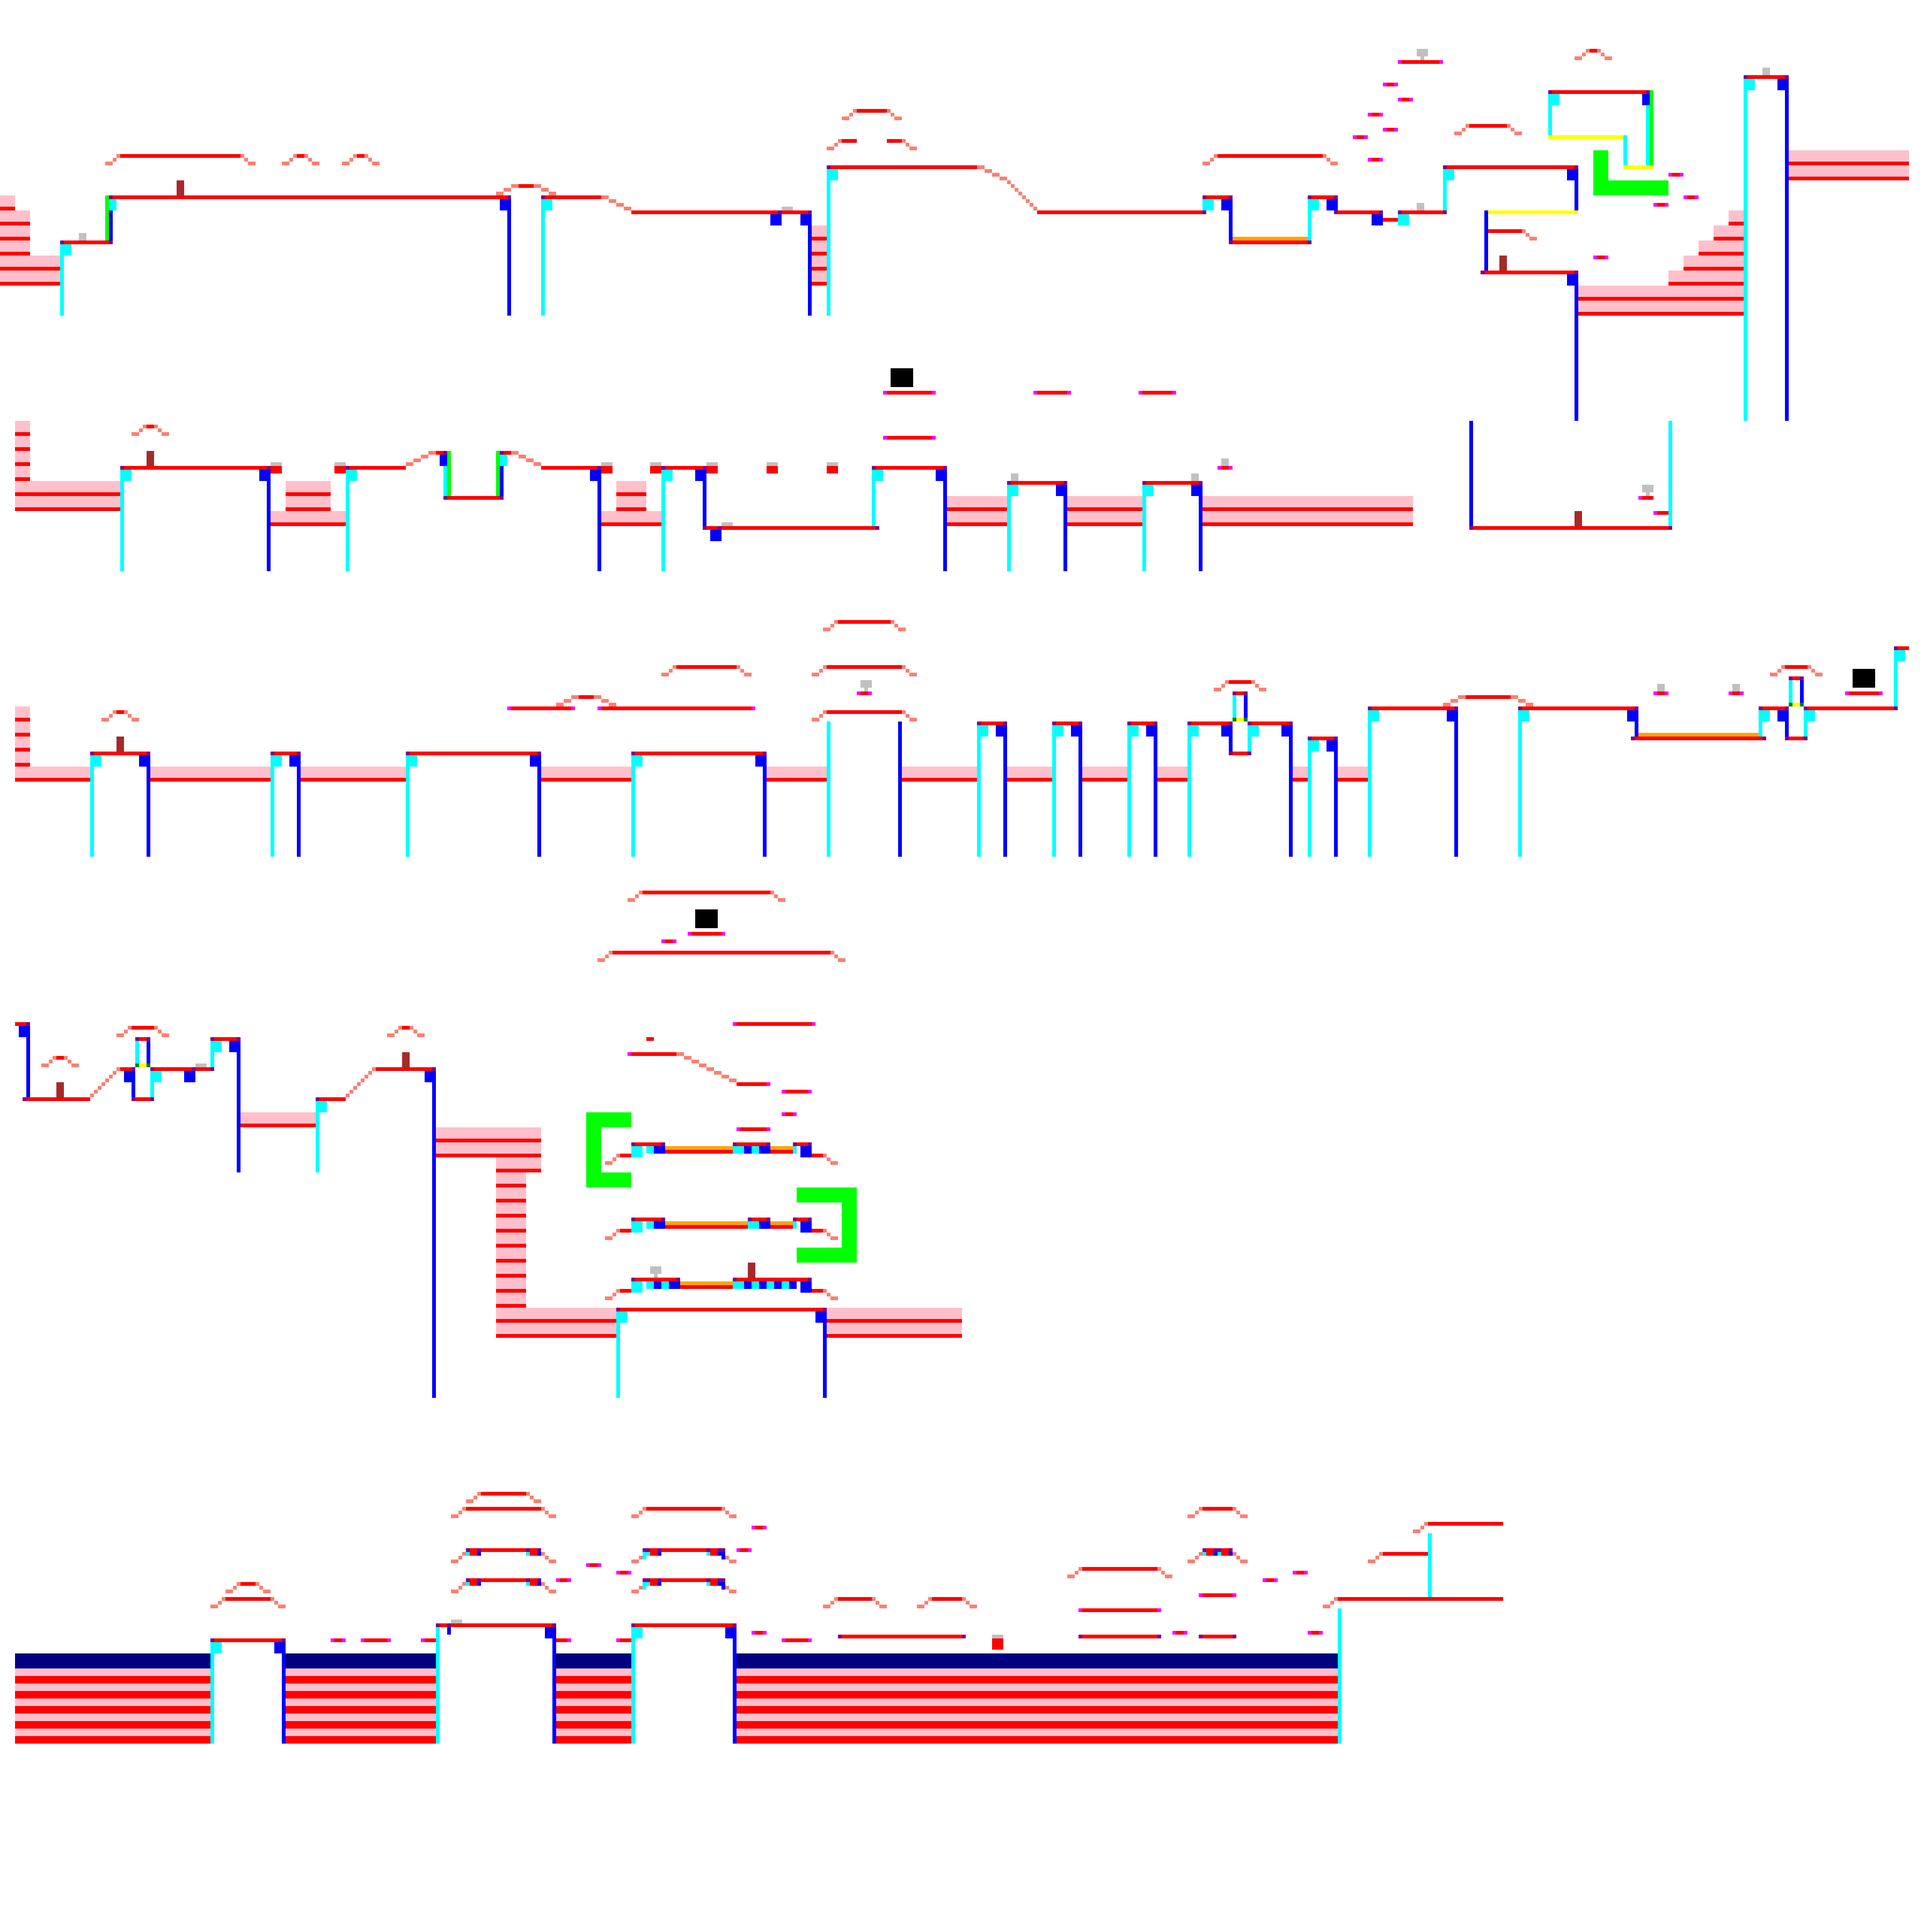
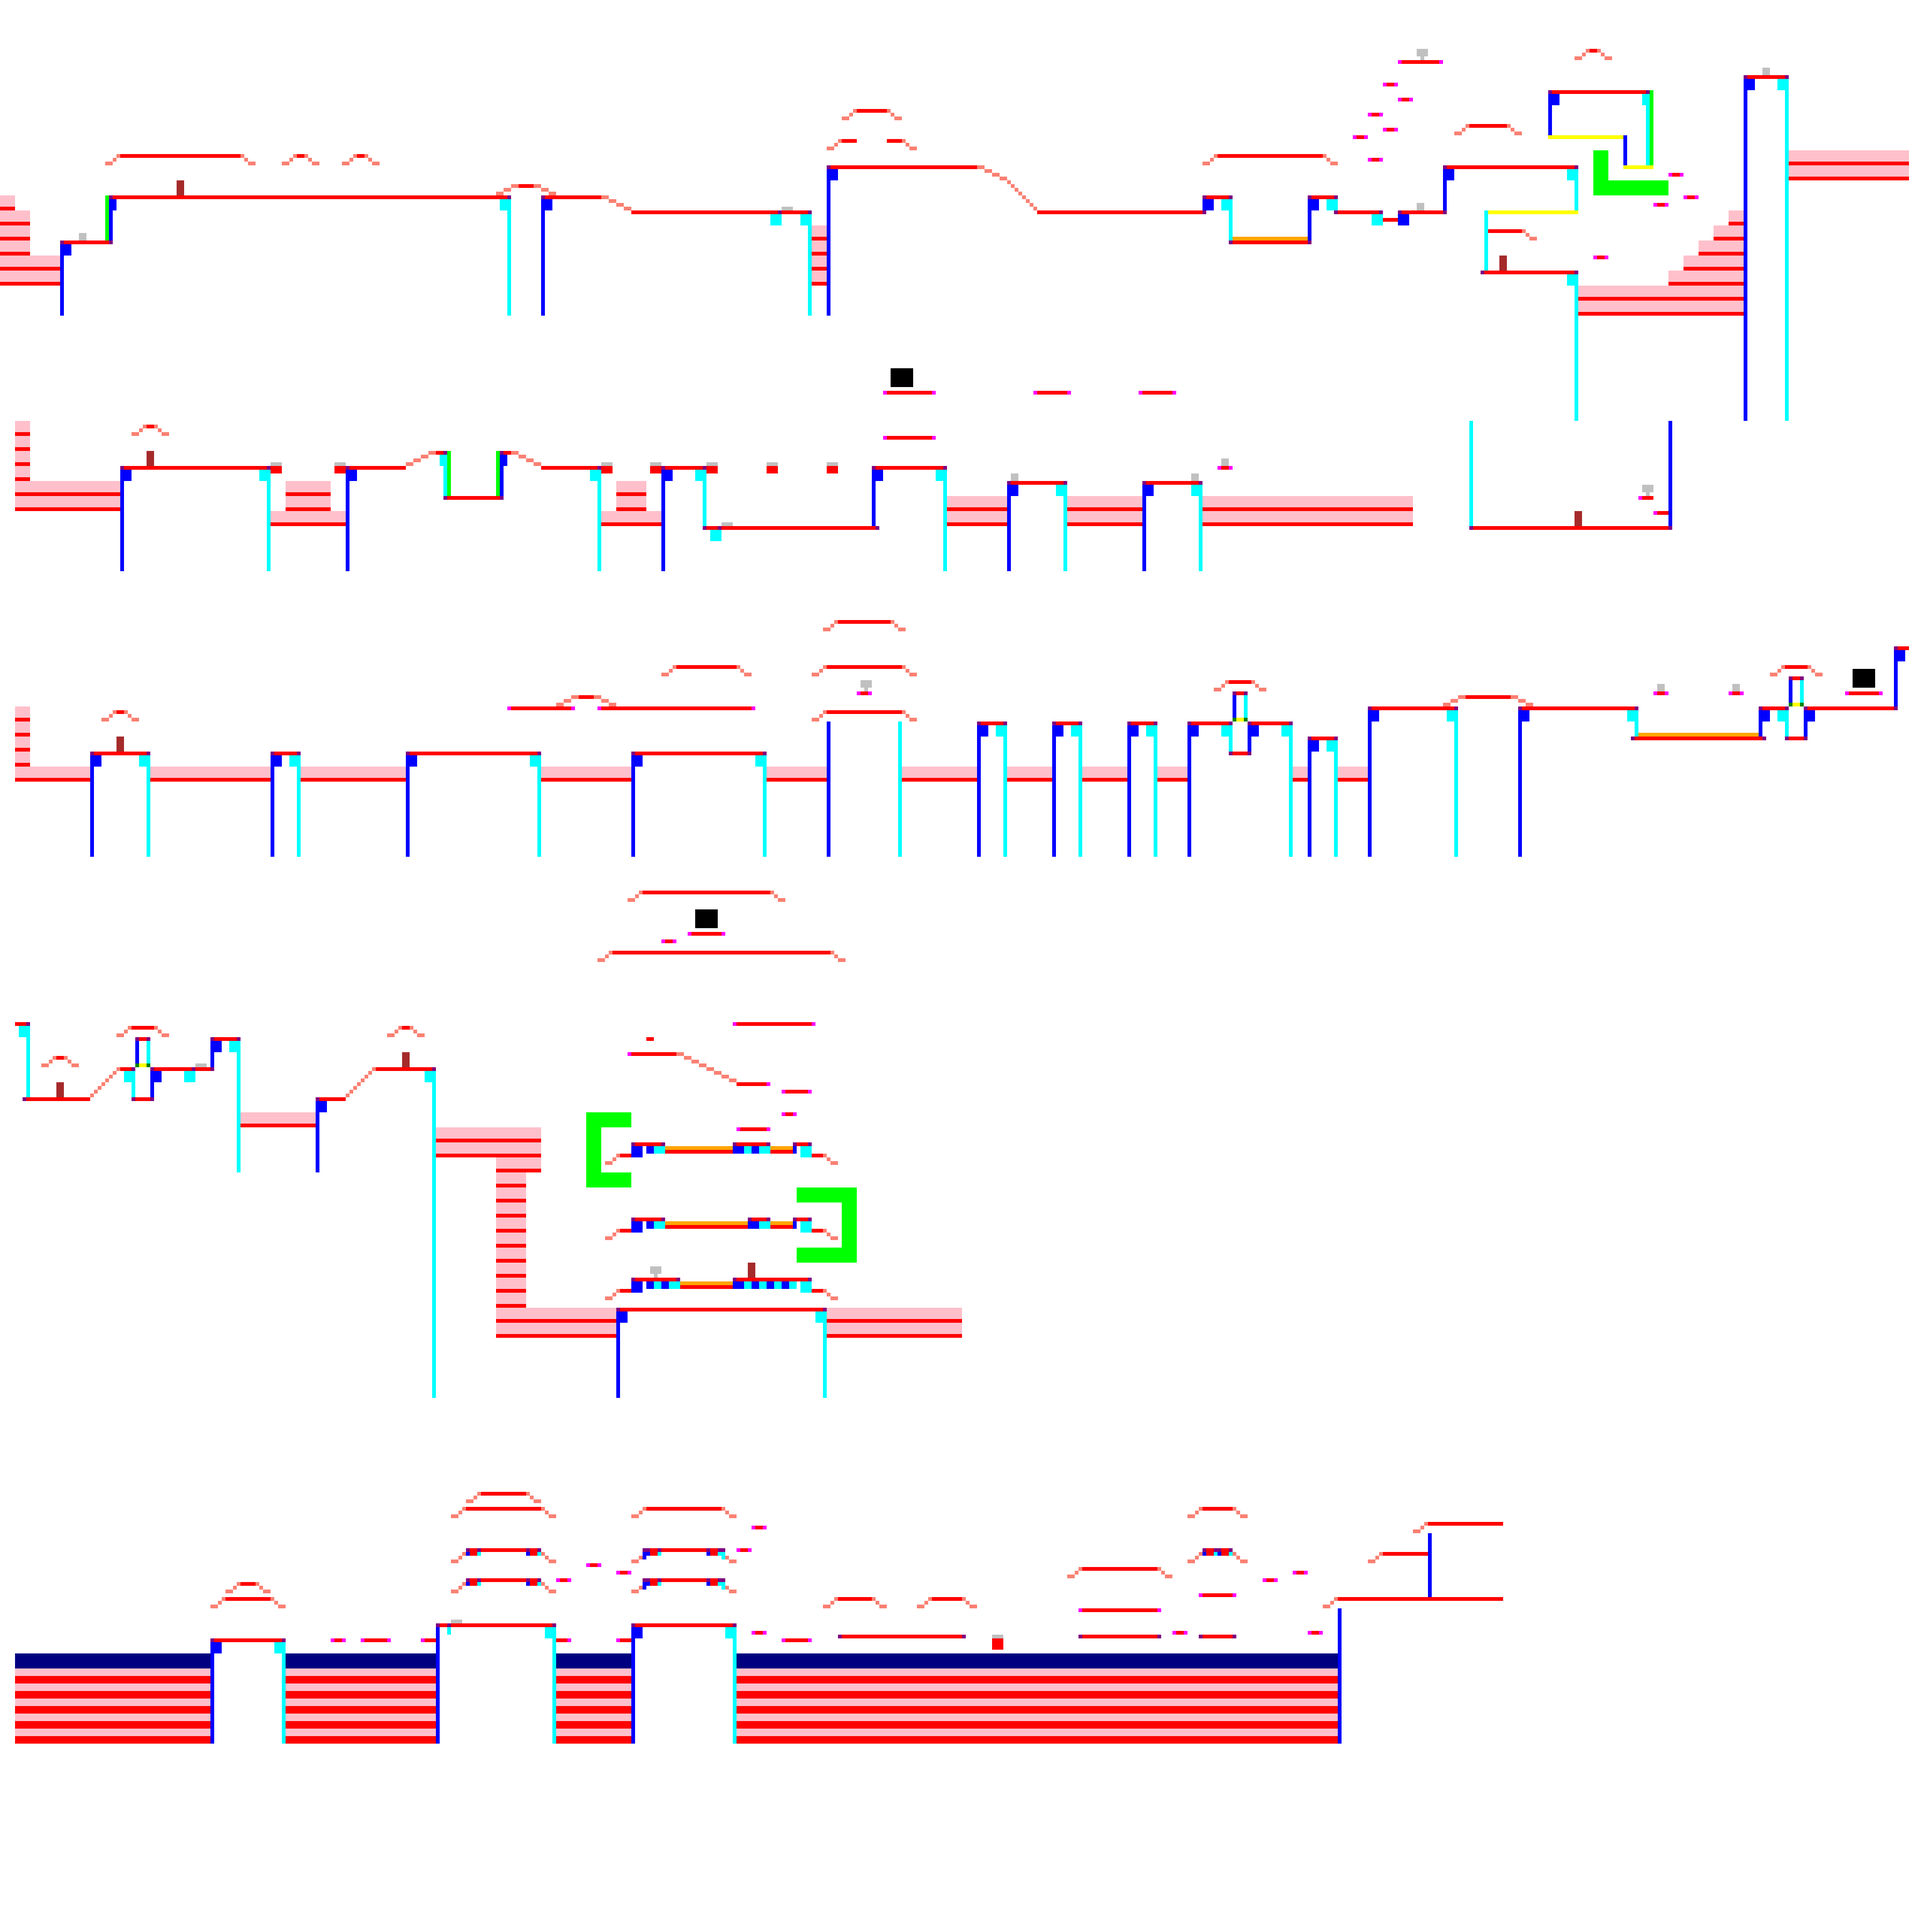
Collision maps

diff --git a/tools/map2png/map2png.py b/tools/map2png/map2png.py
@@ -31,9 +31,9 @@ special_color = "silver"
 
 floor_color = "red"
 floor_sloped_color = "salmon"
-floor_wobble_color = "magenta"
-wall_left_color = "blue"
-wall_right_color = "cyan"
+floor_wobble_on_edge_color = "magenta"
+wall_left_facing_color = "blue"
+wall_right_facing_color = "cyan"
 ceiling_color = "yellow"
 ceiling_and_wall_color = "green"
 floor_and_wall_color = "purple"
@@ -46,16 +46,16 @@ climbable_background_color = "lime"
 climbable_wall_color = "lime"
 
 colors = {
-    0x00: wall_right_color, # wall (right)
-	0x01: wall_left_color, # wall (left)
+    0x00: wall_right_facing_color, # wall (right)
+	0x01: wall_left_facing_color, # wall (left)
 	0x02: floor_color, # floor
 	0x03: unknown_color,
-	0x04: wall_right_color, # wall (right)
+	0x04: wall_left_facing_color, # wall (right)
 	0x05: floor_color, # floor
-	0x06: wall_left_color, # wall (left)
+	0x06: wall_right_facing_color, # wall (left)
 	0x07: ceiling_color, # ceiling
-	0x08: floor_wobble_color, # floor (wobble on the edge)
-	0x09: floor_wobble_color, # floor (wobble on the edge)
+	0x08: floor_wobble_on_edge_color, # floor (wobble on the edge)
+	0x09: floor_wobble_on_edge_color, # floor (wobble on the edge)
 	0x0A: ceiling_and_wall_color, # ceiling and wall?
 	0x0B: ceiling_and_wall_color,
 	0x0C: floor_and_wall_color, # floor and wall?
